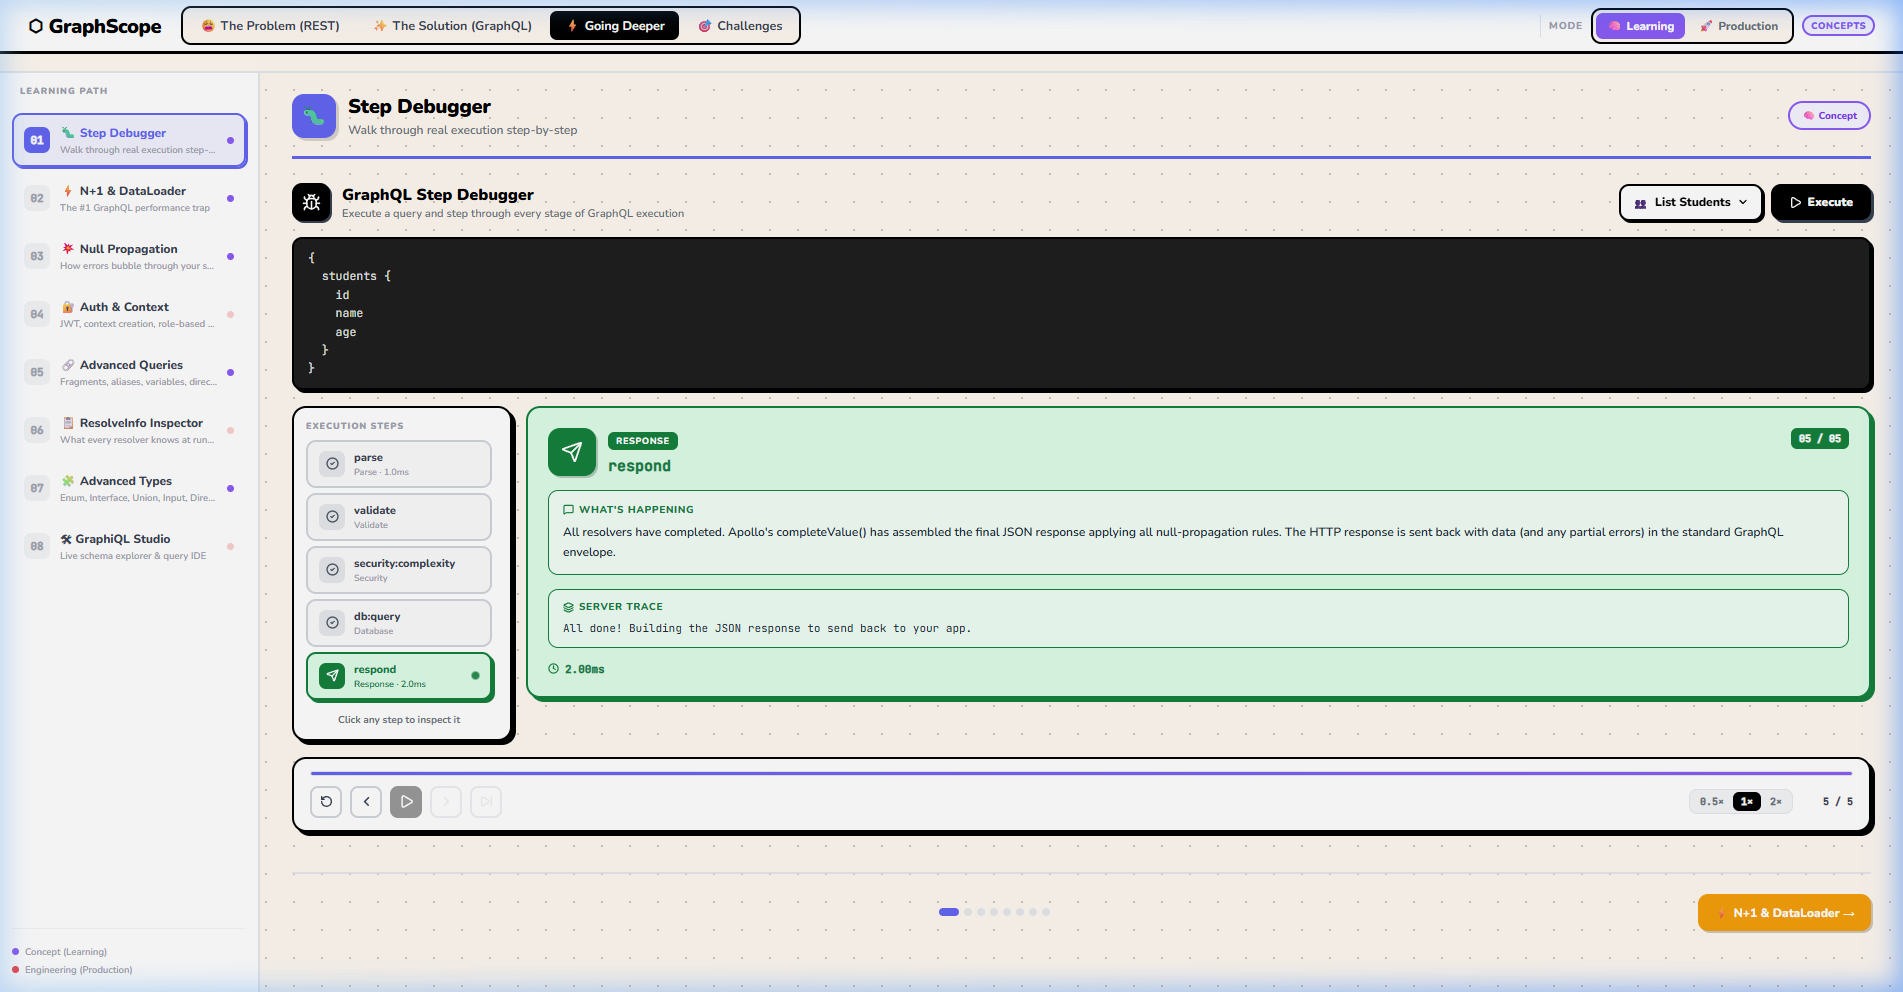
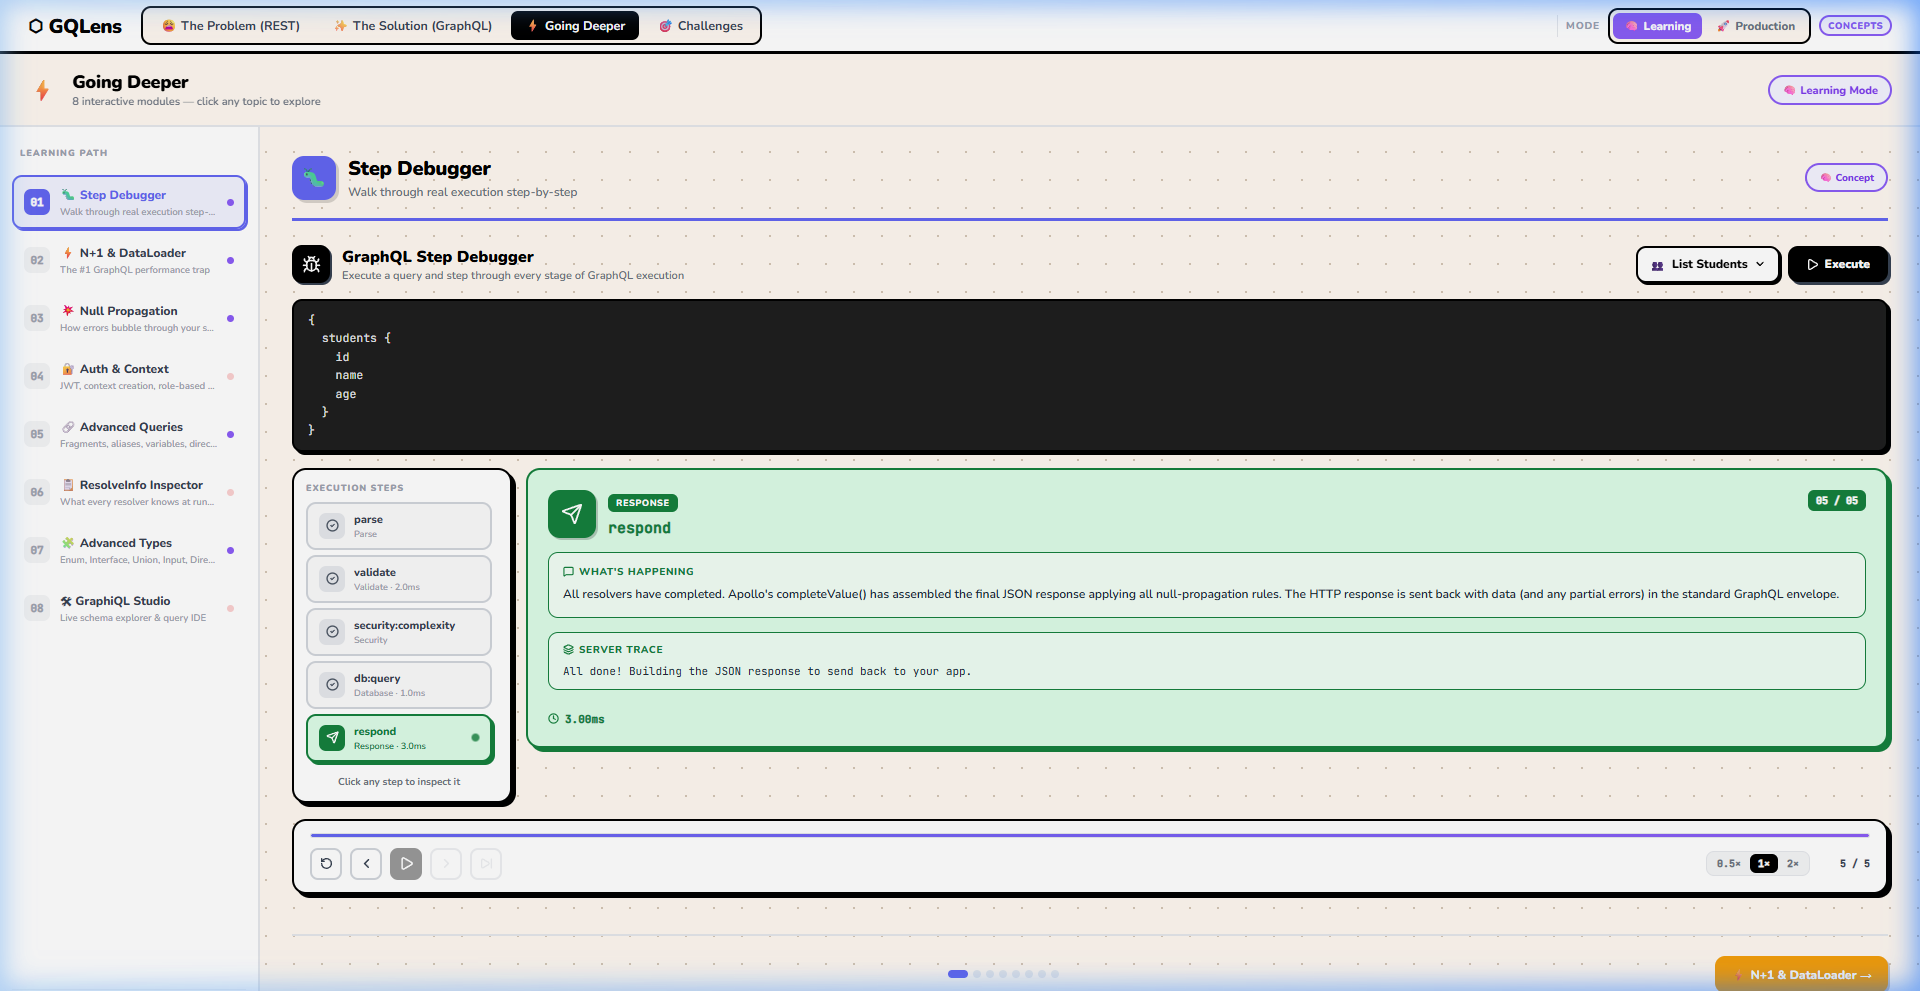
docs: add animated Step Debugger demo GIF to README

diff --git a/README.md b/README.md
@@ -45,7 +45,7 @@
 ---
 
 <p align="center">
-  <img src="docs/demo.png" alt="GQLens Step Debugger — walking through parse → validate → db:query → respond" width="900">
+  <img src="docs/demo.gif" alt="GQLens Step Debugger — walking through parse → validate → db:query → respond" width="900">
 </p>
 
 ---
